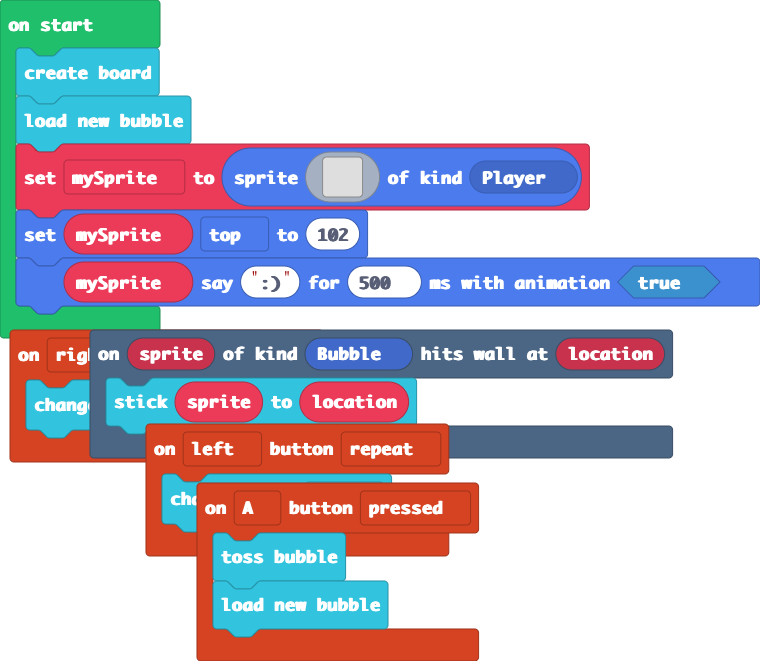
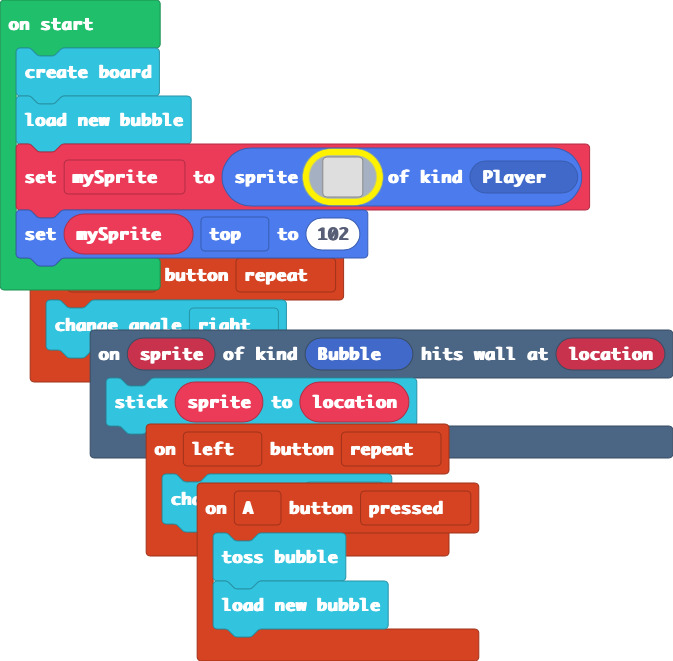
lemon

Changed region(s): [[0.0, 0.0, 1.0, 1.0], [0.8737, 0.6354, 1.0, 0.6959], [0.6241, 0.938, 0.7177, 1.0]]

diff --git a/main.ts b/main.ts
@@ -14,32 +14,22 @@ controller.left.onEvent(ControllerButtonEvent.Repeated, function () {
 bubble.createBoard()
 bubble.load_bubble()
 let mySprite = sprites.create(img`
-    ...........aaaaaa55.............
-    .........aaacaaafaaaaa..........
-    ........caafaa55acaacac.........
-    .......ffc5555555a5f5fa5........
-    ......bcf5affa555fffacfffcc.....
-    .....cfcaf1fa1aaabfa1cfffca.....
-    ...dcaafaacca1a5aff5115cacaca...
-    .aacaac511aa11151aa5115cacacccc.
-    cffcaac5111111b51111115cacaaaca.
-    ffacacc5b111115591111b5cacaaaacc
-    afccaac5555555555555555caacccacc
-    afccaac555555555555555afcaccaac.
-    .ccaacc555555555555555afccaaac..
-    ..acccaf55555f11c5555affcaaa....
-    .....aaaf55555ff55555faaa.......
-    .........aac555555a.............
-    ..........a.aaacaa.a............
-    .........55..cccca.55...........
-    ..........588cccc5b5............
-    ..........cc988c89c8............
-    ............88ccc8..............
-    ............c8988c..............
-    ...........c888cc8..............
-    ..........c89888fc..............
-    ..........cccccc8c..............
-    ............f...cf..............
+    4 4 4 . . 4 4 4 4 4 . . . . . . 
+    4 5 5 4 4 5 5 5 5 5 4 4 . . . . 
+    b 4 5 5 1 5 1 1 1 5 5 5 4 . . . 
+    . b 5 5 5 5 1 1 5 5 1 1 5 4 . . 
+    . b d 5 5 5 5 5 5 5 5 1 1 5 4 . 
+    b 4 5 5 5 5 5 5 5 5 5 5 1 5 4 . 
+    c d 5 5 5 5 5 5 5 5 5 5 5 5 5 4 
+    c d 4 5 5 5 5 5 5 5 5 5 5 1 5 4 
+    c 4 5 5 5 d 5 5 5 5 5 5 5 5 5 4 
+    c 4 d 5 4 5 d 5 5 5 5 5 5 5 5 4 
+    . c 4 5 5 5 5 d d d 5 5 5 5 5 b 
+    . c 4 d 5 4 5 d 4 4 d 5 5 5 4 c 
+    . . c 4 4 d 4 4 4 4 4 d d 5 d c 
+    . . . c 4 4 4 4 4 4 4 4 5 5 5 4 
+    . . . . c c b 4 4 4 b b 4 5 4 4 
+    . . . . . . c c c c c c b b 4 . 
     `, SpriteKind.Player)
 mySprite.top = 102
 mySprite.sayText(":)", 500, true)
